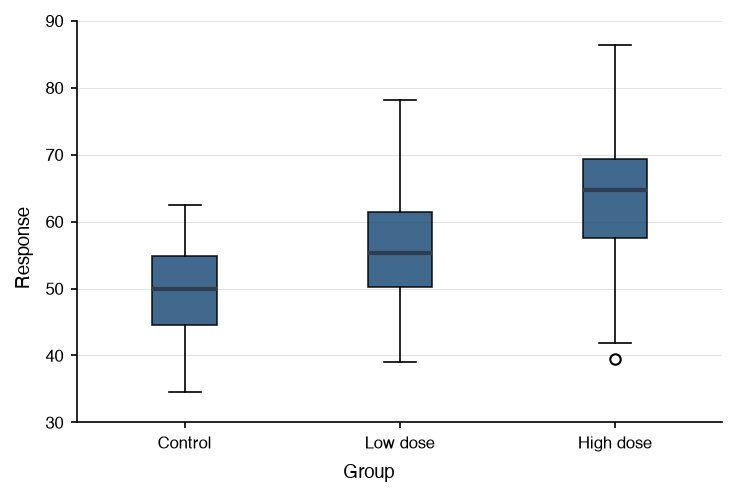
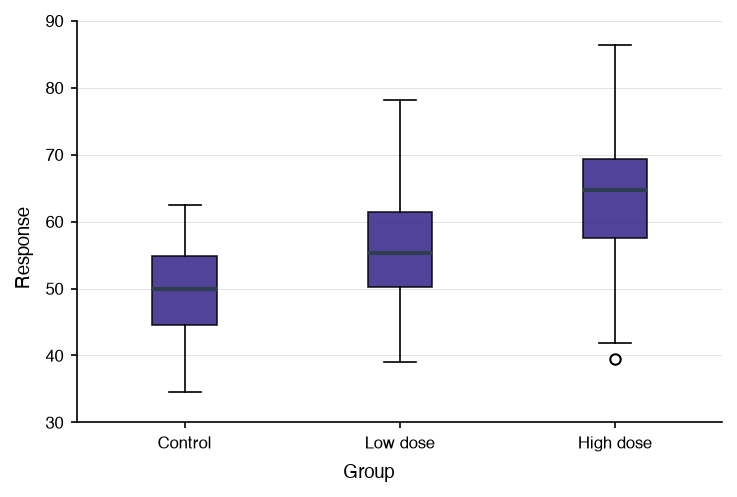
docs(home): give the homepage marquee one dark tile in three
The earlier theme cycle filled most tiles with dark lead colours. Every
third tile now takes a dark theme, the others DEFAULT, MATERIAL, HATCH,
or MINIMAL.

Changed region(s): [[0.1872, 0.5131, 0.3121, 0.664], [0.7802, 0.3018, 0.8738, 0.4829], [0.4993, 0.4225, 0.5929, 0.5734]]

diff --git a/docs/assets/scripts/generate_chart_gallery.py b/docs/assets/scripts/generate_chart_gallery.py
@@ -731,8 +731,26 @@ HOME = (
     highlighting,
     annotate,
 )
-# the hand-drawn themes read poorly at marquee size
-HOME_THEMES = [name for name in THEMES if name not in ("SKETCH", "QUILL")]
+# split by the lead colour, which fills the single-series charts; the
+# hand-drawn SKETCH and QUILL read poorly at marquee size
+HOME_LIGHT = ("DEFAULT", "MATERIAL", "HATCH", "MINIMAL")
+HOME_DARK = (
+    "INK",
+    "HARBOR",
+    "MUTED",
+    "CONTRAST",
+    "DARK",
+    "GREYSCALE",
+    "MUTEDHATCH",
+    "SLATEHATCH",
+)
+
+
+def _home_theme(i):
+    """Every third marquee tile takes a dark theme, the others a light one."""
+    if i % 3 == 2:
+        return HOME_DARK[(i // 3) % len(HOME_DARK)]
+    return HOME_LIGHT[(i - i // 3) % len(HOME_LIGHT)]
 
 
 def _save(figure, path):
@@ -751,7 +769,7 @@ def main():
         config.set_theme(THEME.DEFAULT)
         _save(chart(), OUT / f"gallery-{chart.__name__}.png")
     for i, chart in enumerate(HOME):
-        config.set_theme(getattr(THEME, HOME_THEMES[i % len(HOME_THEMES)]))
+        config.set_theme(getattr(THEME, _home_theme(i)))
         _save(chart(), OUT / f"home-{chart.__name__}.png")
     config.set_theme(THEME.DEFAULT)
 
